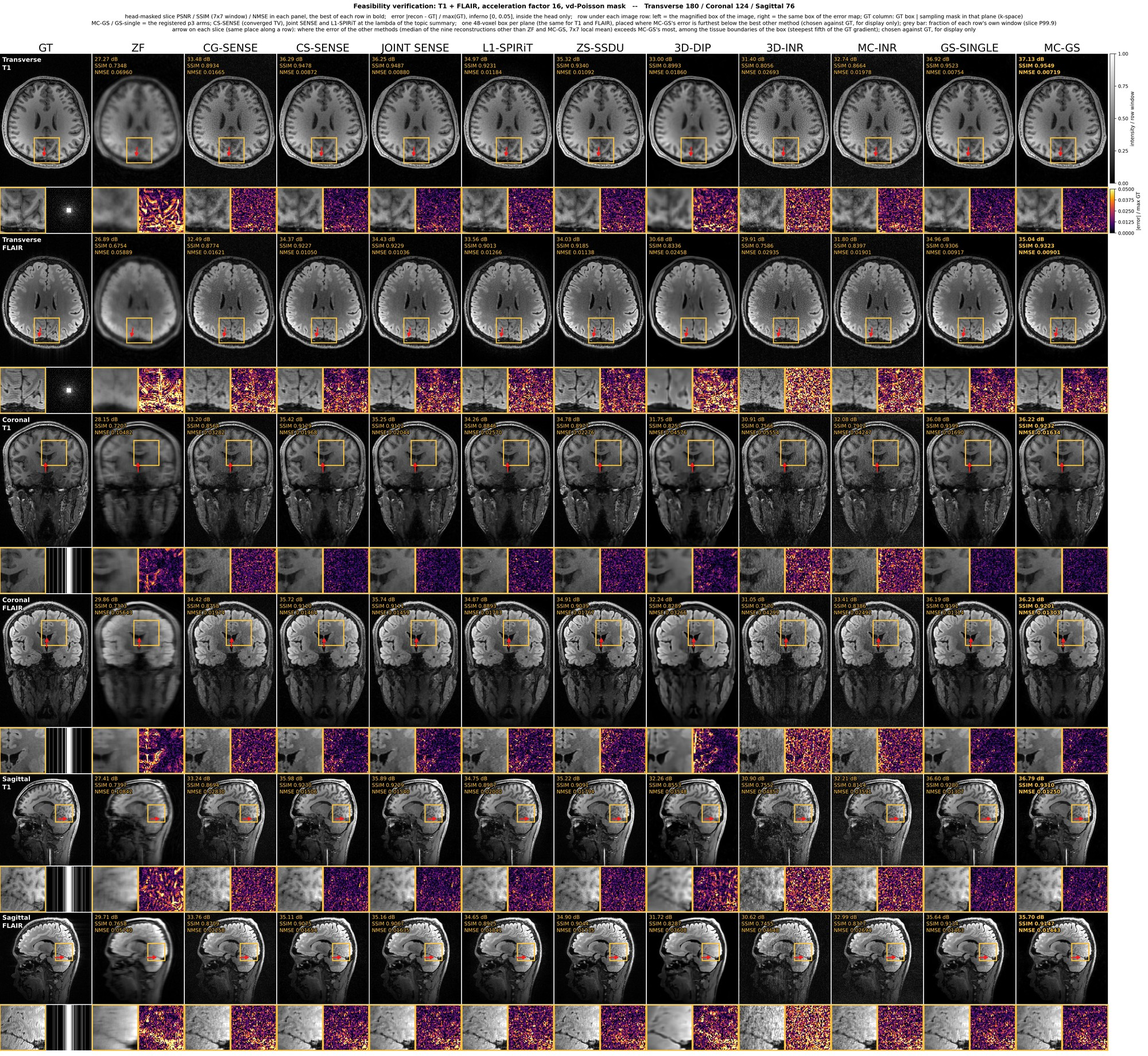
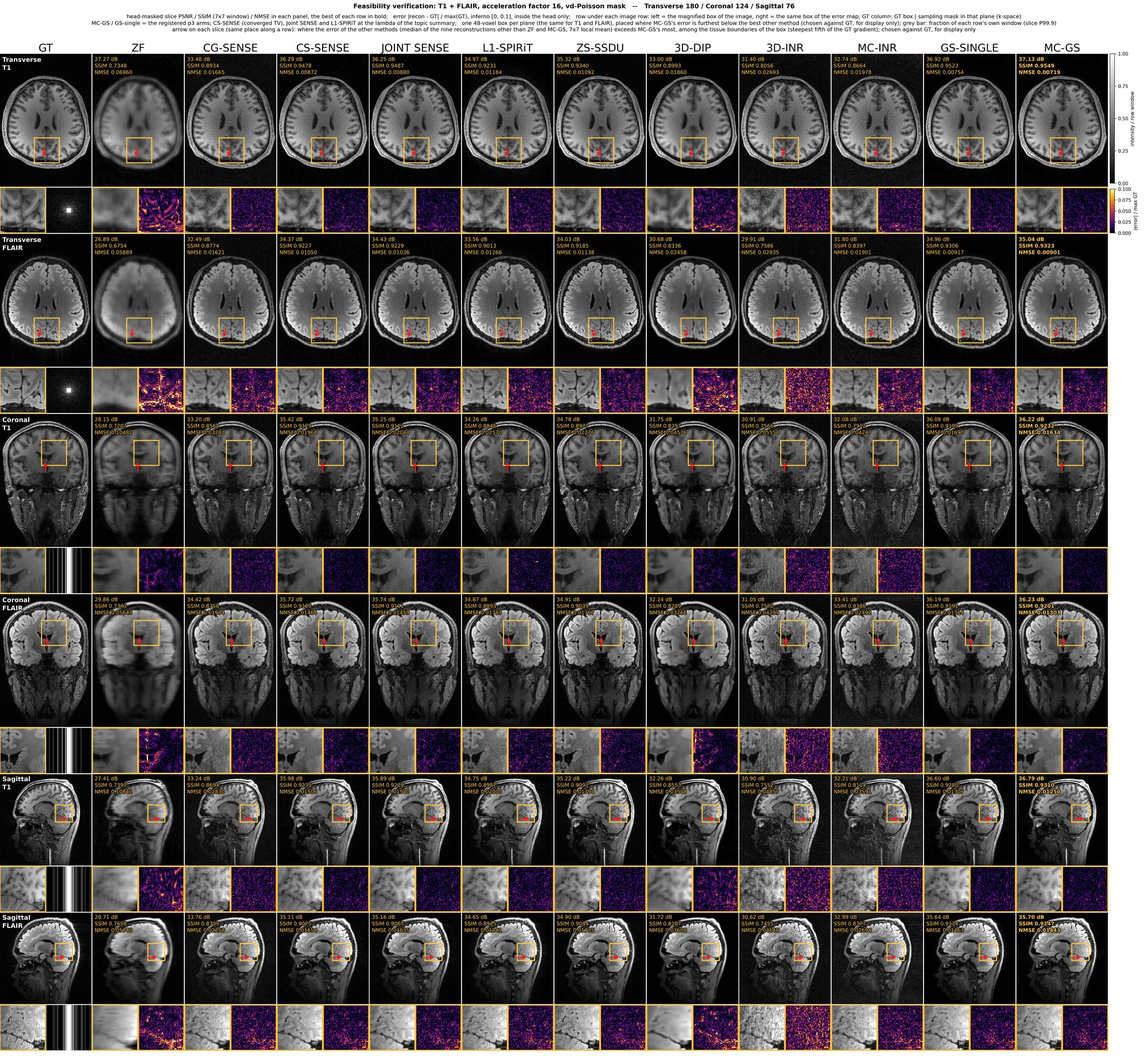
figure: article figures (AF 16, AF 20) with the error range [0, 0.1]

diff --git a/autoresearch/t1flair_af_record_fig_20261120/RECORD.md b/autoresearch/t1flair_af_record_fig_20261120/RECORD.md
@@ -107,13 +107,14 @@
 
 | 作用 | 加速因子 | 图 |
 |---|---|---|
-| 可行性验证 | 16 | `figures/article_af16_feasibility.{png,pdf}`（PNG sha256 `2b2bb499…`） |
-| 加速性能测试 | 20 | `figures/article_af20_acceleration.{png,pdf}`（PNG sha256 `43b26df4…`） |
+| 可行性验证 | 16 | `figures/article_af16_feasibility.{png,pdf}`（PNG sha256 `47a828ca…`） |
+| 加速性能测试 | 20 | `figures/article_af20_acceleration.{png,pdf}`（PNG sha256 `335a3907…`） |
 
-- **与展示版的差别：** 框、层面、色图、每格数字都不变。标题写作用和加速因子；箭头选点限制在框内 GT 梯度最陡的五分之一像素上（`--arrow_mode edge`），所以落在组织边界。
-- **命令：** 展示版的参数再加 `--arrow_mode edge --role "<作用>"`。
-- **服务器：** `codex_artifacts/mcgs_t1flair_af_zoomsel_20261121/article_nature_edge_af/{af16_feasibility,af20_acceleration}/`（PNG、600 dpi PDF、预览、记录 JSON、数据 npz、脚本副本）。
-  同级的 `article_nature_edge/` 和 `article_nature_edge_nominal/` 是标题带净加速字样的旧版，已被取代。
+- **误差范围（用户 2026-11-22）：** 这两张图的误差色条改为 0–0.1（展示版是 0–0.05），色图仍是 inferno。
+- **与展示版的差别：** 框、层面、每格数字都不变。标题写作用和加速因子；箭头选点限制在框内 GT 梯度最陡的五分之一像素上（`--arrow_mode edge`），所以落在组织边界。
+- **命令：** 展示版的参数把 `--err_vmax` 改为 0.1，再加 `--arrow_mode edge --role "<作用>"`。
+- **服务器：** `codex_artifacts/mcgs_t1flair_af_zoomsel_20261121/article_nature_edge_af_err0.1/{af16_feasibility,af20_acceleration}/`（PNG、600 dpi PDF、预览、记录 JSON、数据 npz、脚本副本）。
+  同级的 `article_nature_edge/`、`article_nature_edge_nominal/`（标题带净加速字样）和 `article_nature_edge_af/`（误差范围 0–0.05）是旧版，已被取代。
 - **结果：** 两张图 MC-GS 都是 18 项全部第一。箭头和框是对照 GT 挑的，只用于展示。
 - **没有采用的一步：** 曾为「净 20×」新抽了一张 2253 点的掩膜（`autoresearch/t1flair_net20_20261121/`，服务器课题 `T1FLAIR_AF20net_v3_jiangyizhou`），
   用户看过后决定不补跑，没有在它上面做任何重建。
